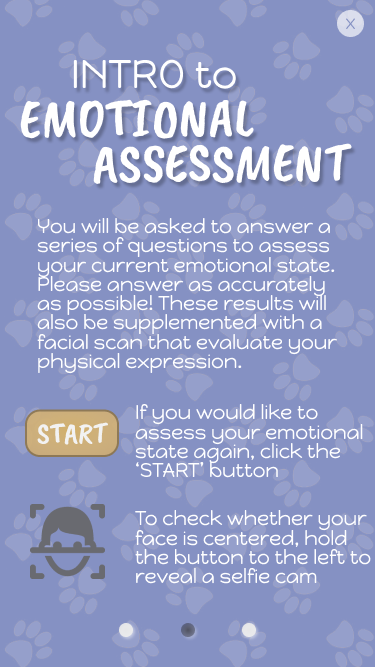
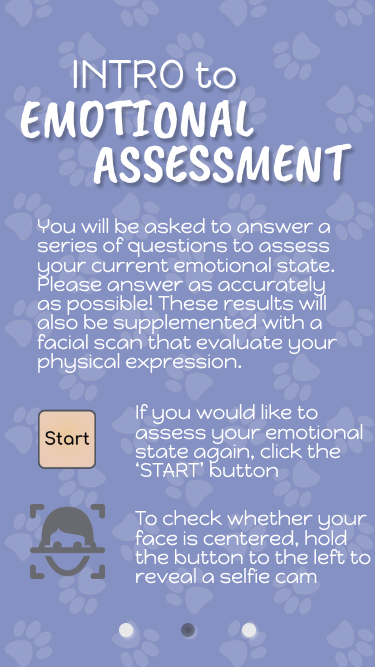
tutorial page implemented

Changed region(s): [[0.0587, 0.5997, 0.3227, 0.7196], [0.88, 0.0, 0.968, 0.06]]

diff --git a/public/css/style.min.css b/public/css/style.min.css
@@ -1,1 +1,1 @@
-body{font-family:'Sniglet', cursive}.homePage{background-image:url("../images/background.png");background-repeat:no-repeat;background-color:#E9C8B5;width:100%;height:100%}.otherPages{background-image:url("../images/bg.png")}.content{height:88%;text-align:center;display:flex;flex-direction:column;justify-content:center;align-items:center;background-size:100% auto}.content h1{width:100%}.content .quizModal{position:fixed;top:25%;bottom:30%;left:15%;right:15%;font-size:45px;display:none;flex-direction:column;justify-content:center;align-items:center}.content .quizModal .raccoon{max-width:300px;max-height:300px;transform:translate(0%, -50%)}.content .quizModal .quizQuestion{height:60%;width:70%;border:solid #525863 5px;border-radius:80px;background-color:rgba(233,200,181,0.8);margin-bottom:10%;color:black}.content .quizModal .quizQuestion p{transform:translate(0%, -50%)}.content .quizModal .quizButton{width:100%;height:15%;padding-top:5%}.content .quizModal .quizButton button{font-size:40px;height:100%;width:30%;margin-left:4%;margin-right:4%;text-align:center;display:inline-block;border-radius:50px;border:solid 3px #76849A;color:#000000;transition-duration:0.2s}.content .quizModal .quizButton #quizYesButton{background-color:rgba(157,255,128,0.8)}.content .quizModal .quizButton #quizNoButton{background-color:rgba(241,114,114,0.8)}.content .modal{position:fixed;top:50%;left:50%;transform:translate(-50%, -50%);display:none;z-index:1;width:60%;height:60%;overflow:auto;flex-direction:column;justify-content:center;align-items:center}.content .modal .modalMessage{height:70%;width:70%;padding:10%;margin:10%;border-radius:20px;border:solid 3px #76849A;font-size:50px;color:#525863;background-color:rgba(255,187,114,0.9)}.content .modal .modalButton{width:100%;height:15%;padding-top:5%}.content .modal .modalButton button{font-size:40px;background-color:#E9C8B5;height:80%;width:40%;margin-left:4%;margin-right:4%;text-align:center;display:inline-block;border-radius:20px;border:solid 3px #76849A;color:#525863;transition-duration:0.2s}.content .modal .modalButton #scanLaterButton:hover{background-color:#FF7F7F}.content .modal .modalButton #scanOkButton:hover{background-color:#8FFFA9}.content .scanningModal{position:fixed;width:100%;top:3%;display:none;flex-direction:column;justify-content:center;align-items:center}.content .scanningModal #countdownMessage{width:60%;border-radius:14px;border:solid 3px #76849A;font-size:40px;color:#525863;background-color:rgba(255,187,114,0.9)}.content .scanningModal #scanStopButton{margin-top:4%;font-size:30px;padding:5px 15px 5px 15px;height:80%;text-align:center;display:inline-block;border-radius:20px;border:solid 2px #76849A;color:#525863;transition-duration:0.2s}.content .scanningModal #scanStopButton:hover{background-color:#FF7F7F}.content .scanningModal #notCenteredMessage{display:none;font-size:40px;margin-top:10px}.content .scanningModal .affectivaTest{display:none;top:18%;position:fixed;width:400px;height:400px;border:solid #525863 10px;overflow:hidden}.content .scanningModal .affectivaTest video{width:533.33333px;margin-left:-66.66667px}.content .scanningModal #toggleCamButton{display:none;opacity:50%;position:fixed;font-size:30px;width:150px;height:150px;bottom:15%;right:6%;text-align:center;border-radius:20px;border:solid 2px #76849A;color:#525863;transition-duration:0.2s;background-color:#E9C8B5;display:flex;flex-direction:column;justify-content:center;align-items:center}.content .scanningModal #toggleCamButton img{width:130px;height:130px}.content .scanResultModal{width:60%;height:50%;font-size:50px;position:fixed;display:none;flex-direction:column;justify-content:center;align-items:center;border-radius:20px;border:solid 3px #76849A;background-color:#E9C8B5}.content .scanResultModal input{font-size:25px}.content .scanResultModal ul{list-style:none;display:flex;flex-direction:column;justify-content:flex-start}.content .scanResultModal li{display:flex;flex-direction:row;justify-content:flex-start;align-items:center;margin:10px}.content .scanResultModal li .emoji{margin-right:20px}.content .scanResultModal li img{width:60px;height:60px}.content .scanResultModal #resultMemo{width:90%;height:50px;margin:20px}.content .scanResultModal .buttons{display:flex;flex-direction:row;justify-content:space-between;align-items:center}.content .scanResultModal button{margin:30px;padding:10px;font-size:40px;border:6px #525863 solid;border-radius:20px;background-color:#ff9e66}.content #startScanButton{font-size:45px;position:fixed;width:130px;height:130px;top:1em;right:1em;border:5px #525863 solid;border-radius:20px;background-color:#E9C8B5}.content .raccoonbookBox{height:80%;width:80%;border:10px #525863 solid;border-radius:40px;background-color:#E9C8B5;display:flex;flex-direction:column;justify-content:center;align-items:center}.content .raccoonbookBox h1{font-size:70px}.content .raccoonbookBox .raccoons{margin:5%;display:grid;grid-template-columns:auto auto auto;width:85%;height:85%}.content .raccoonbookBox .raccoons .raccoon{margin:5%;width:90%;height:90%;border:5px solid black;border-radius:20px;background-color:bisque;display:flex;flex-direction:column;justify-content:center;align-items:center;overflow:hidden}.content .raccoonbookBox .raccoons .raccoon img{max-height:40%;max-width:90%}.content .raccoonbookBox .raccoons .raccoon p{font-size:40px;background-color:azure;border:#76849A solid 3px;border-radius:20px;width:90%;margin-top:20%}.content .raccoonbookBox .raccoonDiscription{position:absolute;display:none;flex-direction:column;justify-content:center;align-items:center;width:50%;height:40%;background-color:blanchedalmond;border-radius:20px;border:solid #76849A 10px;padding:20px}.content .raccoonbookBox .raccoonDiscription #name{font-size:45px}.content .raccoonbookBox .raccoonDiscription img{max-width:80%;max-height:40%;border:solid 4px #525863;overflow:hidden;background-color:white}.content .raccoonbookBox .raccoonDiscription p{height:40%;word-wrap:break-word;font-size:30px;overflow:scroll}.content .raccoonbookBox .raccoonDiscription button{font-size:40px;width:30%;border:solid #525863 5px;border-radius:10px}#memo{width:40%;height:40%;margin:30%;border:solid;background:grey;flex-direction:row;justify-content:center;align-items:center}.calendarModal{position:fixed;left:20%;top:20%;right:20%;bottom:25%;padding:20px;display:none;border-radius:20px;border:solid 3px #525863;background-color:#ffede3;flex-direction:column;box-shadow:4px 5px 20px}.calendarModal .hide{display:none}.calendarModal .top{right:0px;margin:20px 50px 30px 20px}.calendarModal .top .fullDate{font-family:'Fredericka the Great', cursive;float:right;padding:5px;display:flex;flex-direction:column;justify-content:center;align-items:center}.calendarModal .top .fullDate *{margin:0;padding:0}.calendarModal .top .fullDate .monthNum{font-size:35px}.calendarModal .top .fullDate .dateNum{font-size:80px}.calendarModal .top .fullDate .yearNum{font-size:35px}.calendarModal .top #closeDiaryButton{float:left;border:5px solid #525863;border-radius:10px;font-size:30px;padding:10px;margin:10px}.calendarModal .records{padding:0;display:flex;flex-direction:column;justify-content:center;align-items:center}.calendarModal .records li{width:100%}.game{position:fixed}.calendar{padding:5%}.calendar .calendarBox{height:95%;border:solid #525863 10px;border-radius:20px;text-align:center;width:98%;padding:5%;background-color:rgba(255,187,114,0.9)}.calendar .calendarBox .monthBar{margin-bottom:20px;display:flex;border:solid 8px #924010;border-radius:20px;background-color:#ca8156;flex-direction:row;justify-content:space-between;align-items:center}.calendar .calendarBox .monthBar #monthText{font-size:70px}.calendar .calendarBox .monthBar button{margin:10px 20px 10px 20px;width:100px;height:100px;border-radius:50%;border:solid 5px #924010;background-color:#f5bb99;display:flex;flex-direction:row;justify-content:center;align-items:center}.calendar .calendarBox .monthBar button img{max-width:60px}.calendar .calendarBox .dateBox{background-color:white;border:solid 8px #525863;border-radius:20px;height:88%}.calendar .calendarBox .dateBox .memoModal{position:fixed;background-color:rgba(233,200,181,0.87);border:solid 5px #525863;border-radius:20px;left:22%;right:22%;top:25%;bottom:30%;display:none;flex-direction:column;justify-content:center;align-items:center}.calendar .calendarBox .dateBox .memoModal #closeMemoModal{border:solid #525863 5px;padding:5px;margin:5px 5px 20px 5px;font-size:35px;border-radius:20px;width:160px;height:80px}.calendar .calendarBox .dateBox .memoModal #memoTitle{font-size:60px}.calendar .calendarBox .dateBox .memoModal .memoText{overflow:scroll;font-size:40px;width:85%;height:55%;margin-bottom:5%;border:solid #525863 5px;padding:30px;background-color:#ebdfd9}.calendar .calendarBox .dateBox .memoModal #emotionRateList{display:flex;flex-direction:row;justify-content:center;align-items:center;height:25%}.calendar .calendarBox .dateBox .memoModal #emotionRateList li{display:flex;flex-direction:column;justify-content:center;align-items:center;margin:10px 4px 10px 4px}.calendar .calendarBox .dateBox .memoModal #emotionRateList li img{width:65px;height:65px}.calendar .calendarBox .dateBox ul,.calendar .calendarBox .dateBox li{margin:0px;padding:0px;list-style:none}.calendar .calendarBox .dateBox li{font-size:50px;text-align:center;margin-top:10px;flex:auto}.calendar .calendarBox .dateBox .record{width:80%;font-size:40px;display:flex;flex-direction:row;justify-content:space-between;align-items:center;border:3px #76849A solid;background-color:wheat;padding:5px;border-radius:12px}.calendar .calendarBox .dateBox .record p{margin:5px;width:160px;border:solid #525863 5px;border-radius:20px;background-color:#ccd4e2}.calendar .calendarBox .dateBox .record img{width:60px;height:60px;margin-right:20px}.calendar .calendarBox .dateBox .weekdays{text-transform:uppercase;display:flex;flex-direction:row;flex-wrap:wrap;background-color:#5a2404;color:#E9C8B5}.calendar .calendarBox .dateBox .alldays{display:flex;flex-direction:row;flex-wrap:wrap}.calendar .calendarBox .dateBox .alldays .date{background-color:#fae2d4;font-size:55px;padding:5px;flex:auto;width:14%;height:18.55%;margin:0;padding:0;border:solid 2px #525863}.calendar .calendarBox .dateBox .alldays .date #emojiOfTheDay{margin-top:30px;width:60px;height:60px}.bar{height:12%;display:flex;background-image:url("../images/pawbg.png");flex-direction:row;justify-content:center;align-items:center}.bar button{margin:15px;font-size:30px;border:solid 10px #525863;width:160px;height:160px;border-radius:20px;background-color:#fcc19f}.bar #calendarButton,.bar #bookButton,.bar #marketButton,.bar #settingButton{display:flex;justify-content:center;align-items:center;box-shadow:3px 2px 20px #3e4653}.bar #calendarButton img,.bar #bookButton img,.bar #marketButton img,.bar #settingButton img{max-width:100px;max-height:100px}.bar #homeButton{width:190px;height:220px}.menu{margin:5px;width:18%;height:80%;font-size:small;text-align:center;vertical-align:middle;padding-top:16px;padding-bottom:16px}#results *{word-wrap:break-word}.login{display:flex;position:fixed;height:120%;width:100%;background-color:white;z-index:1;flex-direction:column;justify-content:center;align-items:center}.login #fbLogin{margin:40px}.login *{font-family:'Sniglet', cursive}.login h1{font-size:80px}.login h2{font-size:60px}.login h3{font-size:50px}.login .userName,.login .password{display:flex;flex-direction:column;justify-content:center;align-items:center}.login .userName input,.login .password input{margin:5% 10% 30% 10%;width:100%;height:60px;font-size:40px}.login #tutorialDiv{display:flex;flex-direction:row;justify-content:space-between;align-content:center}.login #tutorialDiv #firstTimeUser{margin:0px 20px 0px 0px;margin:0;width:50px;height:50px}.login #tutorialDiv label{font-size:40px}.login #loginButton{margin-top:30px;font-size:40px}.welcomePage{width:100%;height:100%;display:flex;align-content:center;justify-content:center}
+body{font-family:'Sniglet', cursive}.homePage{background-image:url("../images/background.png");background-repeat:no-repeat;background-color:#E9C8B5;width:100%;height:100%}.otherPages{background-image:url("../images/bg.png")}.content{height:88%;text-align:center;display:flex;flex-direction:column;justify-content:center;align-items:center;background-size:100% auto}.content h1{width:100%}.content .quizModal{position:fixed;top:25%;bottom:30%;left:15%;right:15%;font-size:45px;display:none;flex-direction:column;justify-content:center;align-items:center}.content .quizModal .raccoon{max-width:300px;max-height:300px;transform:translate(0%, -50%)}.content .quizModal .quizQuestion{height:60%;width:70%;border:solid #525863 5px;border-radius:80px;background-color:rgba(233,200,181,0.8);margin-bottom:10%;color:black}.content .quizModal .quizQuestion p{transform:translate(0%, -50%)}.content .quizModal .quizButton{width:100%;height:15%;padding-top:5%}.content .quizModal .quizButton button{font-size:40px;height:100%;width:30%;margin-left:4%;margin-right:4%;text-align:center;display:inline-block;border-radius:50px;border:solid 3px #76849A;color:#000000;transition-duration:0.2s}.content .quizModal .quizButton #quizYesButton{background-color:rgba(157,255,128,0.8)}.content .quizModal .quizButton #quizNoButton{background-color:rgba(241,114,114,0.8)}.content .modal{position:fixed;top:50%;left:50%;transform:translate(-50%, -50%);display:none;z-index:1;width:60%;height:60%;overflow:auto;flex-direction:column;justify-content:center;align-items:center}.content .modal .modalMessage{height:70%;width:70%;padding:10%;margin:10%;border-radius:20px;border:solid 3px #76849A;font-size:50px;color:#525863;background-color:rgba(255,187,114,0.9)}.content .modal .modalButton{width:100%;height:15%;padding-top:5%}.content .modal .modalButton button{font-size:40px;background-color:#E9C8B5;height:80%;width:40%;margin-left:4%;margin-right:4%;text-align:center;display:inline-block;border-radius:20px;border:solid 3px #76849A;color:#525863;transition-duration:0.2s}.content .modal .modalButton #scanLaterButton:hover{background-color:#FF7F7F}.content .modal .modalButton #scanOkButton:hover{background-color:#8FFFA9}.content .scanningModal{position:fixed;width:100%;top:3%;display:none;flex-direction:column;justify-content:center;align-items:center}.content .scanningModal #countdownMessage{width:60%;border-radius:14px;border:solid 3px #76849A;font-size:40px;color:#525863;background-color:rgba(255,187,114,0.9)}.content .scanningModal #scanStopButton{margin-top:4%;font-size:30px;padding:5px 15px 5px 15px;height:80%;text-align:center;display:inline-block;border-radius:20px;border:solid 2px #76849A;color:#525863;transition-duration:0.2s}.content .scanningModal #scanStopButton:hover{background-color:#FF7F7F}.content .scanningModal #notCenteredMessage{display:none;font-size:40px;margin-top:10px}.content .scanningModal .affectivaTest{display:none;top:18%;position:fixed;width:400px;height:400px;border:solid #525863 10px;overflow:hidden}.content .scanningModal .affectivaTest video{width:533.33333px;margin-left:-66.66667px}.content .scanningModal #toggleCamButton{display:none;opacity:50%;position:fixed;font-size:30px;width:150px;height:150px;bottom:15%;right:6%;text-align:center;border-radius:20px;border:solid 2px #76849A;color:#525863;transition-duration:0.2s;background-color:#E9C8B5;display:flex;flex-direction:column;justify-content:center;align-items:center}.content .scanningModal #toggleCamButton img{width:130px;height:130px}.content .scanResultModal{width:60%;height:50%;font-size:50px;position:fixed;display:none;flex-direction:column;justify-content:center;align-items:center;border-radius:20px;border:solid 3px #76849A;background-color:#E9C8B5}.content .scanResultModal input{font-size:25px}.content .scanResultModal ul{list-style:none;display:flex;flex-direction:column;justify-content:flex-start}.content .scanResultModal li{display:flex;flex-direction:row;justify-content:flex-start;align-items:center;margin:10px}.content .scanResultModal li .emoji{margin-right:20px}.content .scanResultModal li img{width:60px;height:60px}.content .scanResultModal #resultMemo{width:90%;height:50px;margin:20px}.content .scanResultModal .buttons{display:flex;flex-direction:row;justify-content:space-between;align-items:center}.content .scanResultModal button{margin:30px;padding:10px;font-size:40px;border:6px #525863 solid;border-radius:20px;background-color:#ff9e66}.content #startScanButton{font-size:45px;position:fixed;width:130px;height:130px;top:1em;right:1em;border:5px #525863 solid;border-radius:20px;background-color:#E9C8B5}.content .raccoonbookBox{height:80%;width:80%;border:10px #525863 solid;border-radius:40px;background-color:#E9C8B5;display:flex;flex-direction:column;justify-content:center;align-items:center}.content .raccoonbookBox h1{font-size:70px}.content .raccoonbookBox .raccoons{margin:5%;display:grid;grid-template-columns:auto auto auto;width:85%;height:85%}.content .raccoonbookBox .raccoons .raccoon{margin:5%;width:90%;height:90%;border:5px solid black;border-radius:20px;background-color:bisque;display:flex;flex-direction:column;justify-content:center;align-items:center;overflow:hidden}.content .raccoonbookBox .raccoons .raccoon img{max-height:40%;max-width:90%}.content .raccoonbookBox .raccoons .raccoon p{font-size:40px;background-color:azure;border:#76849A solid 3px;border-radius:20px;width:90%;margin-top:20%}.content .raccoonbookBox .raccoonDiscription{position:absolute;display:none;flex-direction:column;justify-content:center;align-items:center;width:50%;height:40%;background-color:blanchedalmond;border-radius:20px;border:solid #76849A 10px;padding:20px}.content .raccoonbookBox .raccoonDiscription #name{font-size:45px}.content .raccoonbookBox .raccoonDiscription img{max-width:80%;max-height:40%;border:solid 4px #525863;overflow:hidden;background-color:white}.content .raccoonbookBox .raccoonDiscription p{height:40%;word-wrap:break-word;font-size:30px;overflow:scroll}.content .raccoonbookBox .raccoonDiscription button{font-size:40px;width:30%;border:solid #525863 5px;border-radius:10px}#memo{width:40%;height:40%;margin:30%;border:solid;background:grey;flex-direction:row;justify-content:center;align-items:center}.calendarModal{position:fixed;left:20%;top:20%;right:20%;bottom:25%;padding:20px;display:none;border-radius:20px;border:solid 3px #525863;background-color:#ffede3;flex-direction:column;box-shadow:4px 5px 20px}.calendarModal .hide{display:none}.calendarModal .top{right:0px;margin:20px 50px 30px 20px}.calendarModal .top .fullDate{font-family:'Fredericka the Great', cursive;float:right;padding:5px;display:flex;flex-direction:column;justify-content:center;align-items:center}.calendarModal .top .fullDate *{margin:0;padding:0}.calendarModal .top .fullDate .monthNum{font-size:35px}.calendarModal .top .fullDate .dateNum{font-size:80px}.calendarModal .top .fullDate .yearNum{font-size:35px}.calendarModal .top #closeDiaryButton{float:left;border:5px solid #525863;border-radius:10px;font-size:30px;padding:10px;margin:10px}.calendarModal .records{padding:0;display:flex;flex-direction:column;justify-content:center;align-items:center}.calendarModal .records li{width:100%}.game{position:fixed}.calendar{padding:5%}.calendar .calendarBox{height:95%;border:solid #525863 10px;border-radius:20px;text-align:center;width:98%;padding:5%;background-color:rgba(255,187,114,0.9)}.calendar .calendarBox .monthBar{margin-bottom:20px;display:flex;border:solid 8px #924010;border-radius:20px;background-color:#ca8156;flex-direction:row;justify-content:space-between;align-items:center}.calendar .calendarBox .monthBar #monthText{font-size:70px}.calendar .calendarBox .monthBar button{margin:10px 20px 10px 20px;width:100px;height:100px;border-radius:50%;border:solid 5px #924010;background-color:#f5bb99;display:flex;flex-direction:row;justify-content:center;align-items:center}.calendar .calendarBox .monthBar button img{max-width:60px}.calendar .calendarBox .dateBox{background-color:white;border:solid 8px #525863;border-radius:20px;height:88%}.calendar .calendarBox .dateBox .memoModal{position:fixed;background-color:rgba(233,200,181,0.87);border:solid 5px #525863;border-radius:20px;left:22%;right:22%;top:25%;bottom:30%;display:none;flex-direction:column;justify-content:center;align-items:center}.calendar .calendarBox .dateBox .memoModal #closeMemoModal{border:solid #525863 5px;padding:5px;margin:5px 5px 20px 5px;font-size:35px;border-radius:20px;width:160px;height:80px}.calendar .calendarBox .dateBox .memoModal #memoTitle{font-size:60px}.calendar .calendarBox .dateBox .memoModal .memoText{overflow:scroll;font-size:40px;width:85%;height:55%;margin-bottom:5%;border:solid #525863 5px;padding:30px;background-color:#ebdfd9}.calendar .calendarBox .dateBox .memoModal #emotionRateList{display:flex;flex-direction:row;justify-content:center;align-items:center;height:25%}.calendar .calendarBox .dateBox .memoModal #emotionRateList li{display:flex;flex-direction:column;justify-content:center;align-items:center;margin:10px 4px 10px 4px}.calendar .calendarBox .dateBox .memoModal #emotionRateList li img{width:65px;height:65px}.calendar .calendarBox .dateBox ul,.calendar .calendarBox .dateBox li{margin:0px;padding:0px;list-style:none}.calendar .calendarBox .dateBox li{font-size:50px;text-align:center;margin-top:10px;flex:auto}.calendar .calendarBox .dateBox .record{width:80%;font-size:40px;display:flex;flex-direction:row;justify-content:space-between;align-items:center;border:3px #76849A solid;background-color:wheat;padding:5px;border-radius:12px}.calendar .calendarBox .dateBox .record p{margin:5px;width:160px;border:solid #525863 5px;border-radius:20px;background-color:#ccd4e2}.calendar .calendarBox .dateBox .record img{width:60px;height:60px;margin-right:20px}.calendar .calendarBox .dateBox .weekdays{text-transform:uppercase;display:flex;flex-direction:row;flex-wrap:wrap;background-color:#5a2404;color:#E9C8B5}.calendar .calendarBox .dateBox .alldays{display:flex;flex-direction:row;flex-wrap:wrap}.calendar .calendarBox .dateBox .alldays .date{background-color:#fae2d4;font-size:55px;padding:5px;flex:auto;width:14%;height:18.55%;margin:0;padding:0;border:solid 2px #525863}.calendar .calendarBox .dateBox .alldays .date #emojiOfTheDay{margin-top:30px;width:60px;height:60px}.bar{height:12%;display:flex;background-image:url("../images/pawbg.png");flex-direction:row;justify-content:center;align-items:center}.bar button{margin:15px;font-size:30px;border:solid 10px #525863;width:160px;height:160px;border-radius:20px;background-color:#fcc19f}.bar #calendarButton,.bar #bookButton,.bar #marketButton,.bar #settingButton{display:flex;justify-content:center;align-items:center;box-shadow:3px 2px 20px #3e4653}.bar #calendarButton img,.bar #bookButton img,.bar #marketButton img,.bar #settingButton img{max-width:100px;max-height:100px}.bar #homeButton{width:190px;height:220px}.menu{margin:5px;width:18%;height:80%;font-size:small;text-align:center;vertical-align:middle;padding-top:16px;padding-bottom:16px}#results *{word-wrap:break-word}.login{display:flex;position:fixed;height:120%;width:100%;background-color:white;z-index:1;flex-direction:column;justify-content:center;align-items:center}.login #fbLogin{margin:40px}.login *{font-family:'Sniglet', cursive}.login h1{font-size:80px}.login h2{font-size:60px}.login h3{font-size:50px}.login .userName,.login .password{display:flex;flex-direction:column;justify-content:center;align-items:center}.login .userName input,.login .password input{margin:5% 10% 30% 10%;width:100%;height:60px;font-size:40px}.login #tutorialDiv{display:flex;flex-direction:row;justify-content:space-between;align-content:center}.login #tutorialDiv #firstTimeUser{margin:0px 20px 0px 0px;margin:0;width:50px;height:50px}.login #tutorialDiv label{font-size:40px}.login #loginButton{margin-top:30px;font-size:40px}.welcomePage{width:100%;height:100%;display:flex;align-content:center;justify-content:center}.welcomePage img{width:100%}.welcomePage button{padding:20px;position:fixed;font-size:45px;border:solid 6px #525863;border-radius:20px;background-color:#fcc19f;font-family:'Sniglet', cursive}.welcomePage #skipBtn{background-color:rgba(252,193,159,0.5);top:1em;right:1em}.welcomePage #prevBtn{left:1em;bottom:1em;width:220px;display:none}.welcomePage #nextBtn{right:1em;bottom:1em;width:220px}

diff --git a/public/css/style.scss b/public/css/style.scss
@@ -792,4 +792,34 @@ body{
     display: flex;
     align-content: center;
     justify-content: center;
+    img {
+        width: 100%;
+    }
+
+    button {
+        padding: 20px;
+        position: fixed;
+        font-size: 45px;
+        border: solid 6px #525863;
+        border-radius: 20px;
+        background-color: rgb(252, 193, 159);    
+        font-family: 'Sniglet', cursive;        
+    }
+
+    #skipBtn {
+        background-color: rgba(252, 193, 159, 0.5);    
+        top: 1em;
+        right: 1em;
+    }
+    #prevBtn {
+        left: 1em;
+        bottom: 1em;
+        width: 220px;
+        display: none;
+    }
+    #nextBtn {
+        right: 1em;
+        bottom: 1em;
+        width: 220px;
+    }
 }

diff --git a/public/css/style.css b/public/css/style.css
@@ -614,3 +614,26 @@ body {
   display: flex;
   align-content: center;
   justify-content: center; }
+  .welcomePage img {
+    width: 100%; }
+  .welcomePage button {
+    padding: 20px;
+    position: fixed;
+    font-size: 45px;
+    border: solid 6px #525863;
+    border-radius: 20px;
+    background-color: #fcc19f;
+    font-family: 'Sniglet', cursive; }
+  .welcomePage #skipBtn {
+    background-color: rgba(252, 193, 159, 0.5);
+    top: 1em;
+    right: 1em; }
+  .welcomePage #prevBtn {
+    left: 1em;
+    bottom: 1em;
+    width: 220px;
+    display: none; }
+  .welcomePage #nextBtn {
+    right: 1em;
+    bottom: 1em;
+    width: 220px; }
